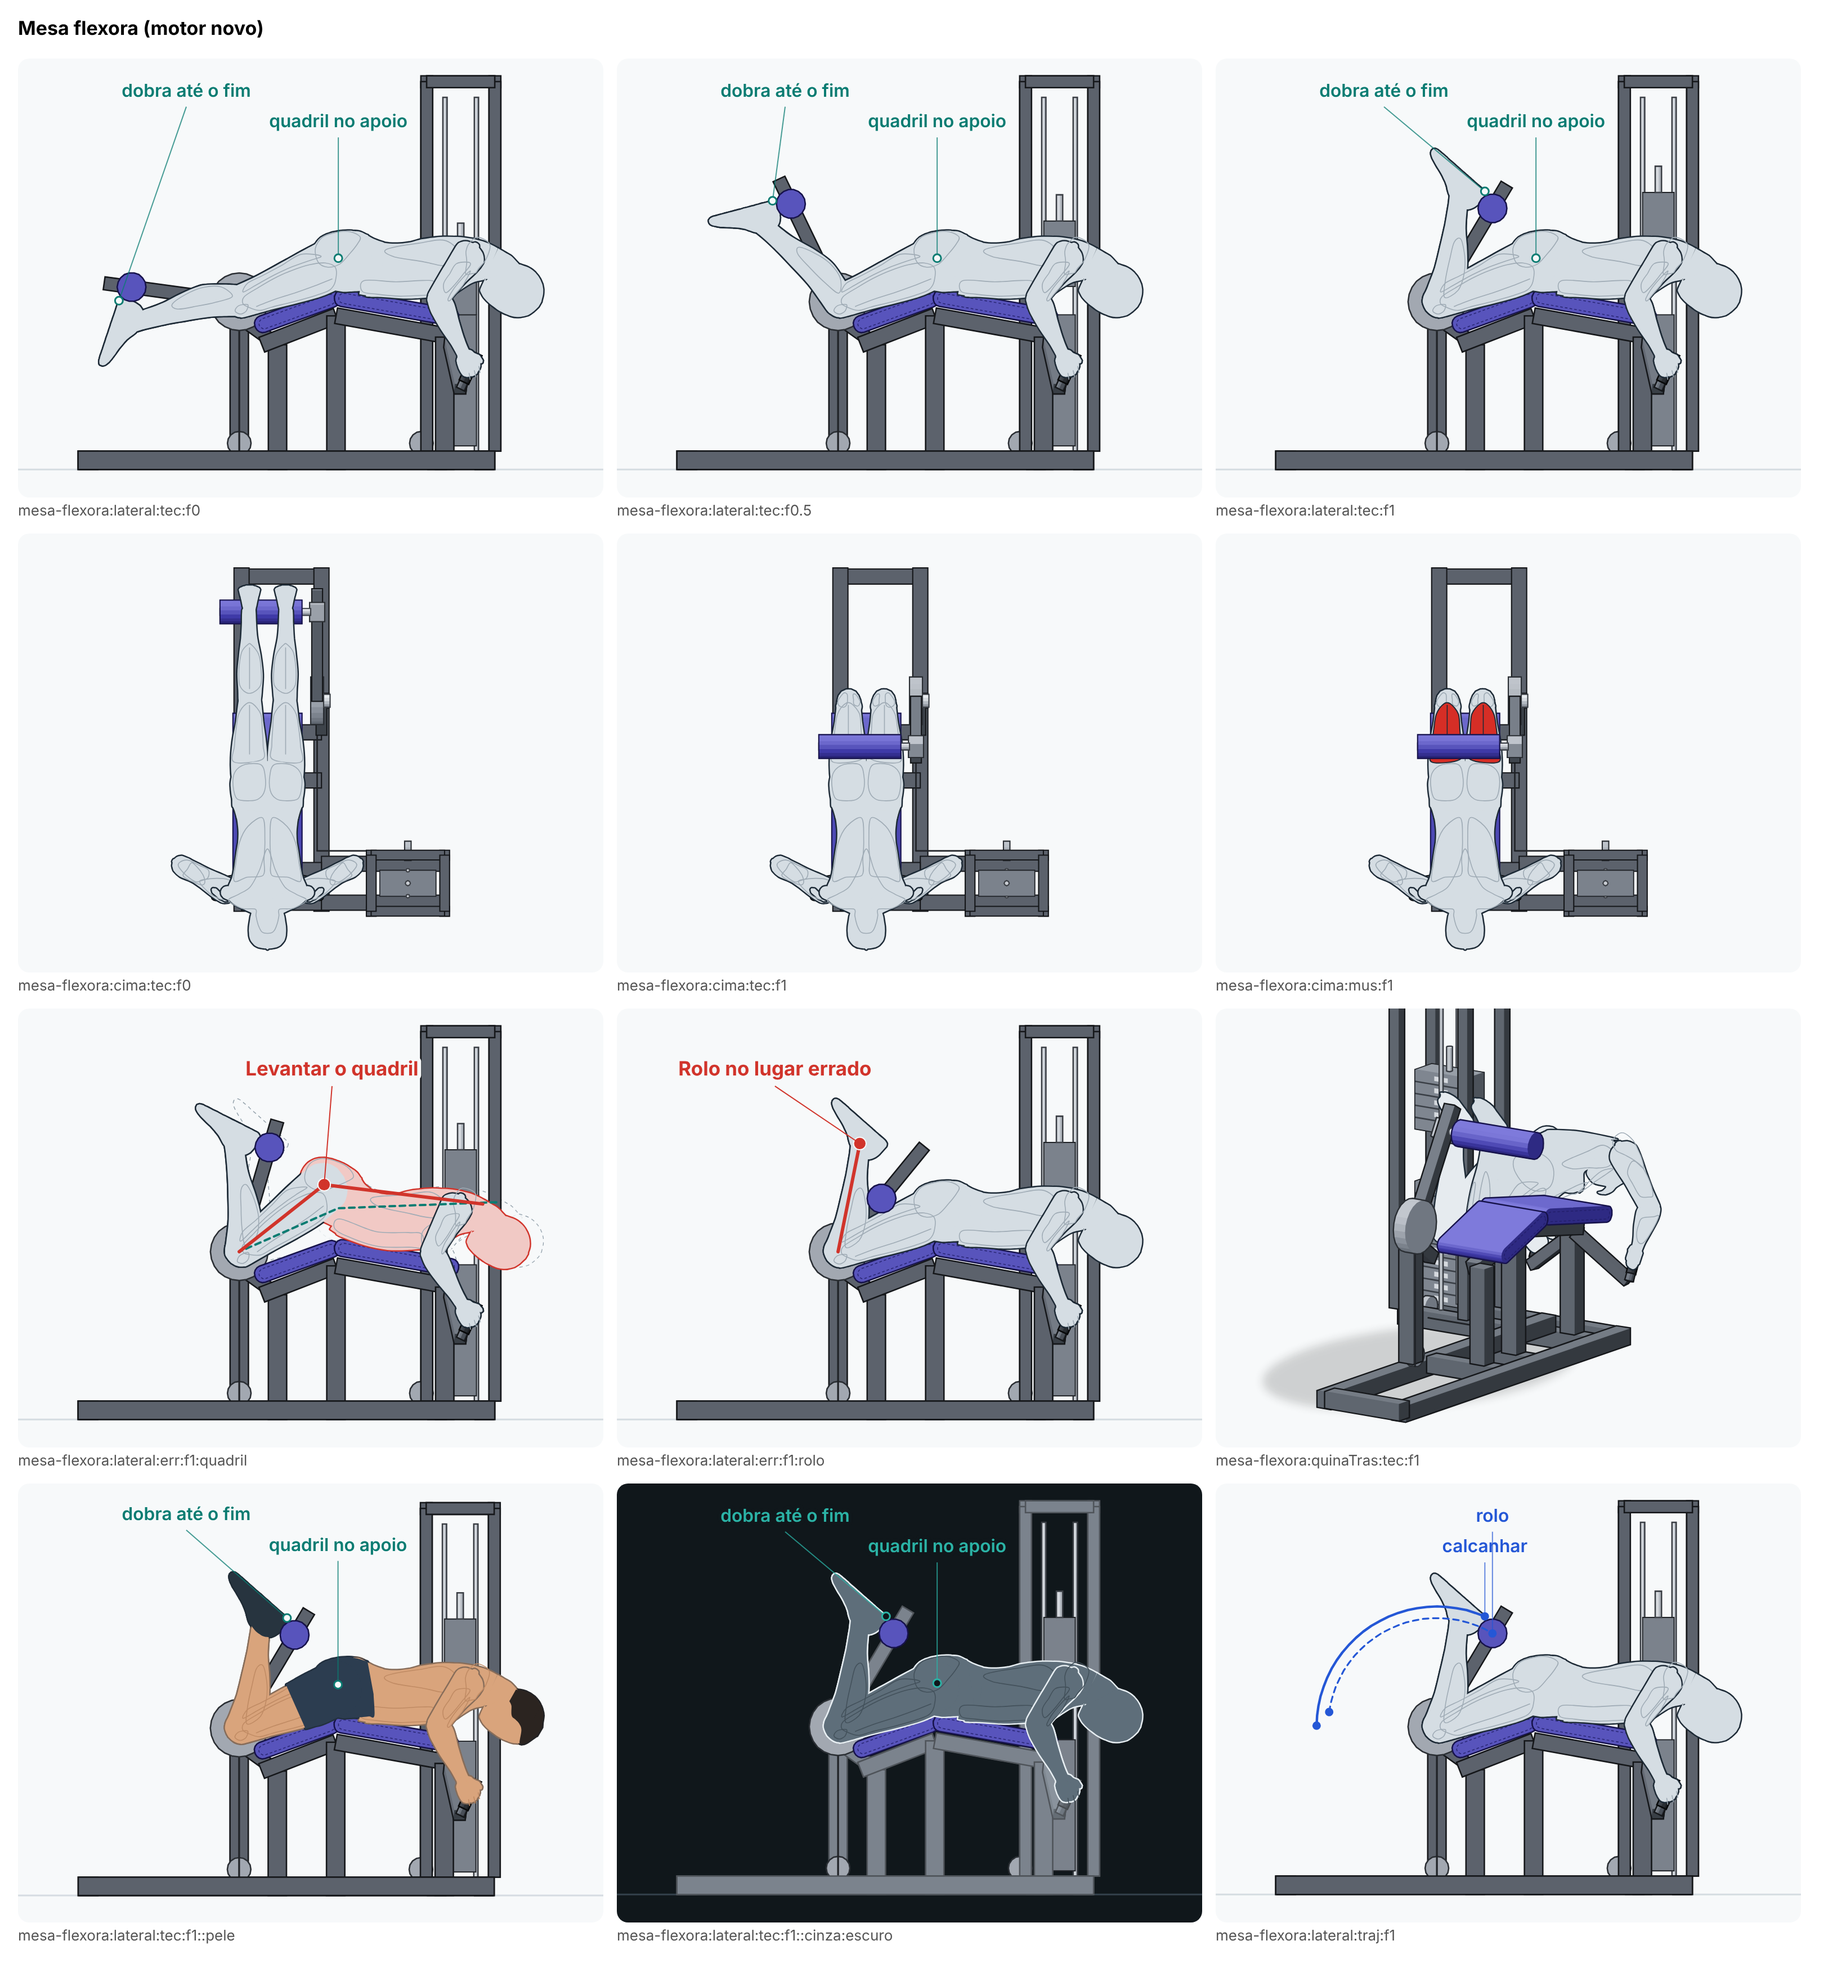
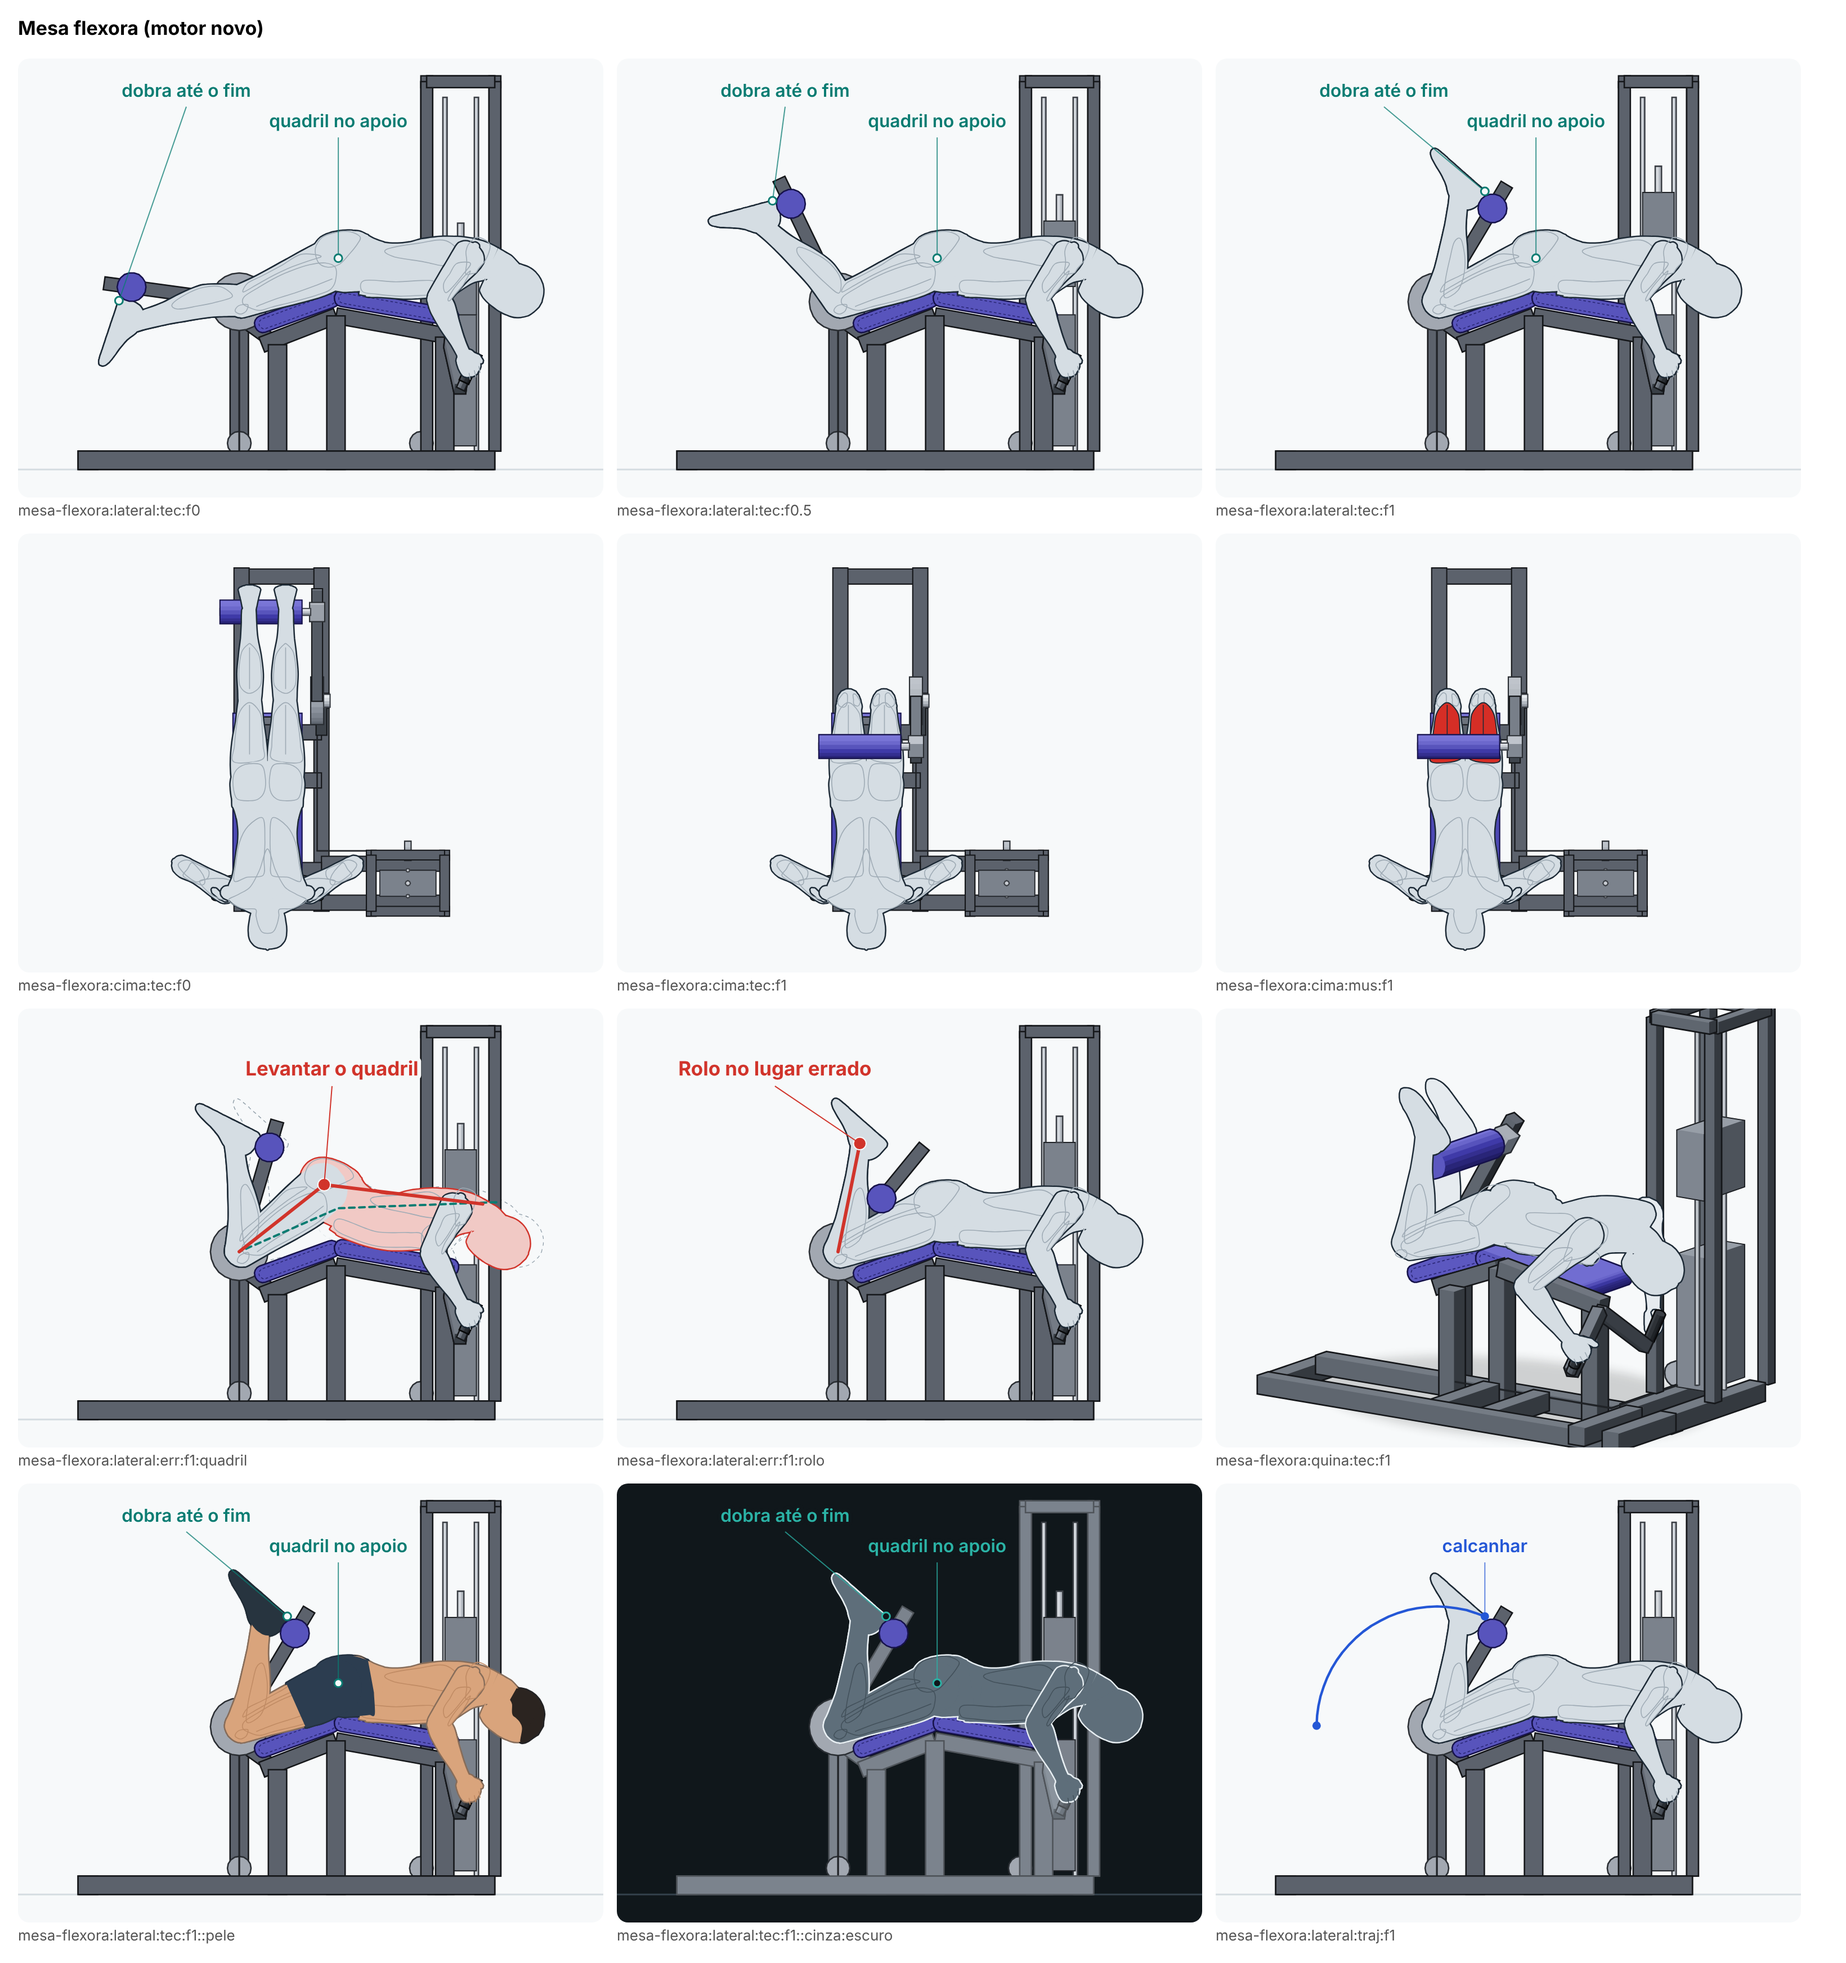
Lote C1: corrige a mesa flexora de três quartos, a trajetória dela e o erro de girar o quadril no coice na máquina
Os estofados da mesa são pintados na profundidade do canto mais longe de quem olha (o corpo deitado fica por cima deles de três quartos); a trajetória da mesa fica só no calcanhar; no erro de girar o quadril, a sola fica na plataforma e o joelho abre para fora.

Claude-Session: https://claude.ai/code/session_01YRzts8DBGbsca9onebcMt1

diff --git a/src/engine/novo/pecas-de-cena/mesa-flexora.ts b/src/engine/novo/pecas-de-cena/mesa-flexora.ts
@@ -131,19 +131,28 @@ export function mesaFlexora(m: MesaFlexora) {
       for (const z of [zTras + 4, zFrente - 4]) T([-meiaLarg + 4, tubo / 2, z], [xC + 2, tubo / 2, z]);
       T([xC + 2, tubo / 2, zT0 + 4], [xT1, tubo / 2, zT0 + 4]);
       T([xC + 2, tubo / 2, zT1 - 4], [xT1, tubo / 2, zT1 - 4]);
+      // O corpo deita em cima dos estofados: eles (e a viga e os pés embaixo deles) são pintados na profundidade do
+      // canto deles mais longe de quem olha. Com a profundidade do meio de cada um (o normal do gerador), de três
+      // quartos o estofado das coxas, mais perto de quem olha que o meio do tronco, era pintado por cima do tronco.
+      let fundo = -1e9;
+      for (const p of [G.coxa, G.peito])
+        for (const s of [0, p.comp])
+          for (const x of [-meiaLarg, meiaLarg]) for (const n of [0, -esp - 10]) fundo = Math.max(fundo, C.P(add(add(add(p.ponta, mul(p.ao, s)), [x, 0, 0]), mul(p.normal, n)))[2]);
+      const atras = (centro: V3) => ({ dz: fundo - C.P(centro)[2] + 1 });
+      const Tf = (a: V3, b: V3, w = tubo) => C.tubo(a, b, w, w, M.metal, atras(mul(add(a, b), 0.5)));
       // a viga sob os estofados, que segue a dobra, e os pés dela
       const sob = (p: V3, n: V3) => add(p, mul(n, -esp - 4));
       const a0 = sob(G.coxa.ponta, G.coxa.normal),
         a1 = sob(G.dobra, [0, 1, 0]),
         a2 = sob(G.pontaDoPeito, G.peito.normal);
-      T(a0, a1, 6);
-      T(a1, a2, 6);
-      T([0, tubo, a0[2] + 6], add(a0, [0, 0, 6]));
-      T([0, tubo, a1[2]], a1);
-      T([0, tubo, a2[2] - 4], add(a2, [0, 0, -4]));
+      Tf(a0, a1, 6);
+      Tf(a1, a2, 6);
+      Tf([0, tubo, a0[2] + 6], add(a0, [0, 0, 6]));
+      Tf([0, tubo, a1[2]], a1);
+      Tf([0, tubo, a2[2] - 4], add(a2, [0, 0, -4]));
       for (const z of [a0[2] + 6, a1[2], a2[2] - 4]) T([-meiaLarg + 4, tubo / 2, z], [xC + 2, tubo / 2, z]);
       // os estofados (a face de baixo de cada um fica abaixo do plano onde o corpo deita)
-      for (const p of [G.coxa, G.peito]) C.estofado(add(meioDoTopo(p), mul(p.normal, -esp)), p.ao, p.normal, X, p.comp, esp, g('estofadoLarg'));
+      for (const p of [G.coxa, G.peito]) C.estofado(add(meioDoTopo(p), mul(p.normal, -esp)), p.ao, p.normal, X, p.comp, esp, g('estofadoLarg'), M.estofado, atras(add(meioDoTopo(p), mul(p.normal, -esp / 2))));
       // os pegadores: um braço sai da viga, à frente, e a manopla sobe inclinada
       for (const { centro, dir } of G.pegadores) {
         const pe = add(centro, mul(dir, -g('pegadorComp') / 2 - 3));

diff --git a/src/engine/novo/exercicios/coice-maquina.ts b/src/engine/novo/exercicios/coice-maquina.ts
@@ -9,7 +9,8 @@
 // antebraços deitam nos apoios, com os cotovelos sob os ombros, e as mãos fecham nos pegadores em pé. A inclinação das
 // costas sai daí (o cotovelo encosta no apoio). A perna direita trabalha como no coice com caneleira: com o joelho a
 // 90° e o pé em ângulo reto, a coxa vai de sob o quadril até a linha do tronco, e a sola empurra a plataforma para trás
-// e para cima. O eixo da alavanca fica na linha do quadril (a almofada dos joelhos regula na altura para isso): a
+// e para cima. No erro de girar o quadril, a bacia rola e o joelho abre para fora, com a sola na plataforma (ela só gira
+// no eixo). O eixo da alavanca fica na linha do quadril (a almofada dos joelhos regula na altura para isso): a
 // perna gira inteira em volta dele, e a plataforma gira junto, encostada na sola. A pilha sobe o arco do came.
 import ficha from '../dados/movimentos/coice-maquina.json';
 import { calibragem } from '../calibragens';
@@ -82,7 +83,13 @@ function esqueleto(corpo: Corpo, u: number, erro?: string): Esq {
   const { atras, abre } = coxaEm(corpo, u, erro);
   const d: DesvioDaBacia = { bacia: erro === 'lombar' ? f('erro.lombar.bacia') * u : 0, rola: erro === 'gira' ? f('erro.gira.rola') * u : 0 };
   const t = troncoEmQuatroApoios(corpo, O, { beta: b.beta, pelve: pelveNoEixo() }, d);
-  return resolverMembros(t, bracos(), { R: pernaQueTrabalha(atras, abre), L: pernaDeApoio() });
+  if (erro !== 'gira') return resolverMembros(t, bracos(), { R: pernaQueTrabalha(atras, abre), L: pernaDeApoio() });
+  // no erro de girar: a sola fica na plataforma (presa à alavanca, que só gira no eixo): o tornozelo e o pé ficam onde
+  // estariam no movimento certo; a bacia rola e o joelho abre para fora
+  const certa = pernaQueTrabalha(atras, 0);
+  const R = resolverMembros(troncoEmQuatroApoios(corpo, O, { beta: b.beta, pelve: pelveNoEixo() }), bracos(), { R: certa, L: pernaDeApoio() }).lado.R;
+  const perna: PosePerna = { tornozelo: R.tornozelo, peDir: certa.peDir, polo: norm(girar(certa.polo, [0, 1, 0], abre)) };
+  return resolverMembros(t, bracos(), { R: perna, L: pernaDeApoio() });
 }
 
 /** A sola do pé direito: o meio dela e a direção, perpendicular a ela, que vai da sola para o tornozelo. */

diff --git a/src/engine/novo/exercicios/mesa-flexora.ts b/src/engine/novo/exercicios/mesa-flexora.ts
@@ -208,5 +208,6 @@ export const mesaFlexora: Exercicio = {
   quadro,
   // posteriores da coxa, sem secundário (a biblioteca)
   papeis: { posteriores: 'p' },
-  trajetorias: { calcanhar: (q) => q.esq.lado.R.calcanhar, rolo: (q) => q.marcas.rolo! },
+  // só o calcanhar: o caminho do rolo anda junto com ele, a 6 cm, e os dois nomes ficavam um sobre o outro
+  trajetorias: { calcanhar: (q) => q.esq.lado.R.calcanhar },
 };

diff --git a/docs/revisoes/animacao-nova/lote-C1/mesa-flexora.md b/docs/revisoes/animacao-nova/lote-C1/mesa-flexora.md
@@ -31,7 +31,9 @@ A ficha da técnica dá a técnica em palavras (consenso, `nsca2021`, não verif
 
 - **De lado** (padrão do modo Técnica): mostra o joelho no eixo (o came atrás dele), o rolo acompanhando a canela, o quadril no estofado e a pilha subindo atrás da cabeça.
 - **De cima** (padrão do modo Músculos, 596 cm²): os posteriores das duas coxas e o rolo atravessado sobre as pernas.
-- De três quartos por trás (`quinaTras`), a torre e o estofado ocupam o quadro; ficou fora das duas vistas.
+- De três quartos (pela frente, `quina`, nos quadros grandes): mostra o corpo deitado em cima dos dois estofados, as mãos nos pegadores e o rolo sobre as pernas. Ficou fora das duas vistas do app porque a torre ocupa metade do quadro. De três quartos por trás (`quinaTras`), a torre e o came cobrem o quadril: troquei esse quadro pelo de três quartos pela frente.
+
+**Correção de 18/11 (revisão de quem integra):** de três quartos, o corpo saía pintado embaixo do estofado. A causa: o gerador pinta cada peça na profundidade do meio dela, e o meio do estofado das coxas (comprido e deitado sob o corpo) ficava mais perto de quem olha, de três quartos, que o meio do tronco; ele era pintado por cima do tronco e das pernas. Agora os estofados, a viga e os pés embaixo deles são pintados na profundidade do canto deles mais longe de quem olha (um `dz` por peça, calculado na própria peça), e o corpo deitado fica por cima em qualquer vista. De lado e de cima, nada mudou.
 
 ## Erros (os do cartão, com o mesmo título e na mesma ordem)
 
@@ -41,6 +43,10 @@ A ficha da técnica dá a técnica em palavras (consenso, `nsca2021`, não verif
 | Rolo no lugar errado | de lado | o rolo regulado no meio da panturrilha (a 55% da canela, a 26 cm do eixo; o certo fica a 41 cm), e não logo acima do calcanhar. O corpo faz o movimento certo, por isso o desenho não pinta parte do corpo de vermelho (como no erro do elástico no pescoço, aprovado): a linha vai do joelho ao tornozelo e o ponto marca o tornozelo, onde o rolo devia estar |
 
 **Sem desenho:** "Volta solta" ("deixar a placa cair perde a parte alongada") é erro de ritmo: a pose é a mesma do movimento certo, só mais rápida na volta. Não inventei consequência; o guia mostra o movimento certo com o texto do erro, como o "Soltar a volta" do supino entre as torres. Quem integra põe a exceção em `SEM_DESENHO` do teste da ponte.
+
+## O modo Trajetória
+
+Só o caminho do calcanhar. O do rolo andava junto com ele, a 6 cm, e os dois nomes ficavam um sobre o outro (correção de 18/11).
 
 ## O equipamento
 
@@ -55,5 +61,5 @@ Não há correção registrada para este exercício em `correcoes-ja-feitas.md` 
 - **A dobra do estofado é mais marcada que a do cartão de hoje** (20° no das coxas, contra uns 10° no cartão). Com 10°, a barriga do Boneco ficava no alto da dobra e o peito não deitava no estofado (só deitava com a lombar dobrando 60°, uma corcunda). Nenhuma ficha dá o ângulo.
 - **A parte de cima do peito fica de 2 a 4 cm acima do estofado** (o tórax do Boneco é mais curvo que a barriga); de lado, lê-se como o peito apoiado.
 - **A torre fica atrás da cabeça e dos braços, na vista de lado.** No meio do estofado ela ficava atrás do quadril e os rótulos caíam sobre ela; na ponta da frente, os rótulos ficam livres, mas a cabeça e as mãos se desenham na frente dos montantes.
-- **No modo Trajetória, os nomes "rolo" e "calcanhar" ficam um sobre o outro** (os dois caminhos andam juntos, a 6 cm um do outro).
 - **O erro do rolo não pinta o corpo de vermelho:** o que erra é a regulagem da máquina.
+- **No erro do quadril, o título encosta no montante da torre**, atrás dele.

diff --git a/docs/revisoes/animacao-nova/lote-C1/coice-maquina.md b/docs/revisoes/animacao-nova/lote-C1/coice-maquina.md
@@ -43,9 +43,11 @@ A ficha da técnica dá a técnica em palavras e um número (o quadril dobrado ~
 | Erro (texto do app) | Vista | O que o boneco faz (medido) |
 |---|---|---|
 | Arquear a lombar | de lado | a perna sobe 20° acima da linha do tronco e a bacia vira 14° para a frente, com a lombar arqueando o mesmo tanto e o peito parado (os números do coice com caneleira aprovado); no fim, o quadril mede −7° (passa da linha) |
-| Girar o quadril | de trás | a bacia rola 16° para o lado da perna que trabalha, em volta do quadril de apoio, e a coxa abre 21°; a plataforma, que só gira no eixo, fica onde a alavanca a leva (o pé escorrega para o lado dela) |
+| Girar o quadril | de trás | a bacia rola 16° para o lado da perna que trabalha, em volta do quadril de apoio, e o joelho aponta 22° para fora; a sola fica na plataforma (de −0,6 a −0,3 cm da face dela, no máximo 1,1 cm para o lado do meio dela), porque a plataforma, presa à alavanca, só gira no eixo: o tornozelo e o pé ficam onde estariam no movimento certo, e o joelho dobra de 90° a 95° para o quadril subir |
 
 **Sem desenho:** "Soltar a volta" ("a volta sem controle") é erro de ritmo: a pose é a do movimento certo, só mais rápida na volta. Não inventei consequência; o guia mostra o movimento certo com o texto do erro, como o "Soltar a volta" do supino entre as torres. Quem integra põe a exceção em `SEM_DESENHO` do teste da ponte.
+
+**Correção de 18/11 (revisão de quem integra):** no erro de girar o quadril, a perna inteira girava para fora (como no coice com caneleira, sem plataforma) e o pé saía da plataforma, pisando no ar. A plataforma presa à alavanca não anda para o lado: agora o pé fica nela, e o giro aparece na bacia e no joelho, que abre para fora (o que a ficha descreve: "o quadril gira para o lado").
 
 ## O equipamento
 
@@ -61,4 +63,3 @@ Não há correção registrada para este exercício em `correcoes-ja-feitas.md`.
 - **A alavanca é pintada atrás do corpo.** De lado, ela parece passar por trás da perna, quando está do lado de fora dela; o came, no quadril, fica escondido. É o corte do smith, mas aqui a peça é móvel e se nota mais.
 - **A almofada dos joelhos é uma só, sob o joelho de apoio** (a Precor tem duas, "double knee pad"): com duas, o joelho que trabalha não chegaria sob o peito e o quadril começaria dobrado 65°, e não ~90°.
 - **De lado, a cabeça e as mãos ficam na frente da torre** (a torre fica na frente, do outro lado). Os rótulos ficam livres.
-- **No erro de girar o quadril, a sola sai da plataforma para o lado** (a plataforma só gira no eixo). É o que acontece, mas o pé parece pisar no ar.
